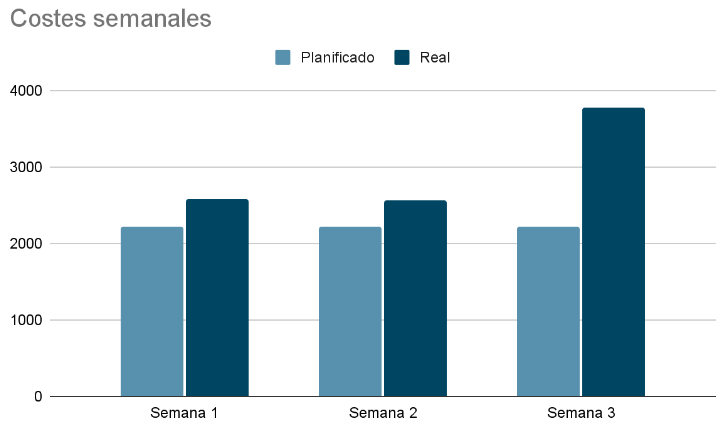
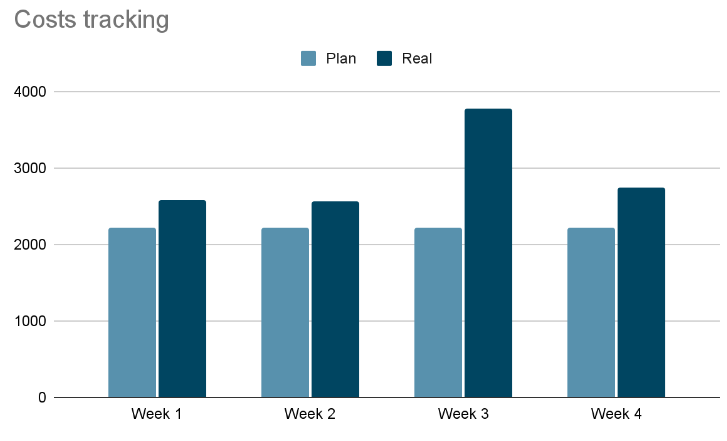
feat: add week 4 costs

diff --git a/docs/Seguimiento de los costes/Semana 4.md b/docs/Seguimiento de los costes/Semana 4.md
@@ -1,0 +1,33 @@
+## (20/02/2024 - 26/02/2024)
+
+Para la semana 4 el número de horas total planificadas es de 170 horas.Teniendo en cuenta que llevamos un registro de horas del proyecto en Clockify, podemos observar en la siguiente imagen las horas reales dedicadas durante la primera semana.
+
+| Reloj de proyecto                                                                 |
+| --------------------------------------------------------------------------------- |
+|<img src="/img/costs/week4/week4-clockify.png" alt="Total reloj de semana 4" width="100%" height="100%"/>|
+
+
+Para las 170 horas planificadas, los costos teniendo en cuenta los distintos roles son los siguientes:
+
+- 1 manager: 10 x 20.85 = 208.50€
+- 3 coordinadores: 3 x 10 x 18.50 = 555.00€
+- 13 desarrolladores: 13 x 10 x 11.25 = 1462.50€
+- **Total = 2226.00€**
+
+Para las 209:38:28 horas reales, los costes teniendo en cuenta los distintos roles y las distintas horas de cada uno de ellos son los siguientes:
+
+- 1 manager: 10.5 x 20.85 = 218.93€
+- 3 coordinadores: 39.25  x 18.50 = 726.13€
+- 13 desarrolladores: 159.75 x 11.25 = 1797.19€
+- **Total = 2742.25€**
+
+Esto nos lleva a un balance de: Coste planificado - Costes real:  2226.00 - 2742.25 = **-516.25€**. Por lo que hemos gastado 516.25€ más de lo que habíamos planificado y hemos dedicado 39.5 horas más de las planificadas.
+
+
+| Tabla resumen                                                                |
+| --------------------------------------------------------------------------------- |
+| ![Tabla resumen semana 4](/img/costs/week4/week4-table.png) |
+
+Donde el valor negativo en cada casilla representa que ha sobrepasado lo planificado.
+
+Estas horas de más que se han dedicado esta semana, aunque estamos cerca de lo planificado, es debido a algunas tareas de desarrollo que nos han llevado más tiempo de lo estipulado.
